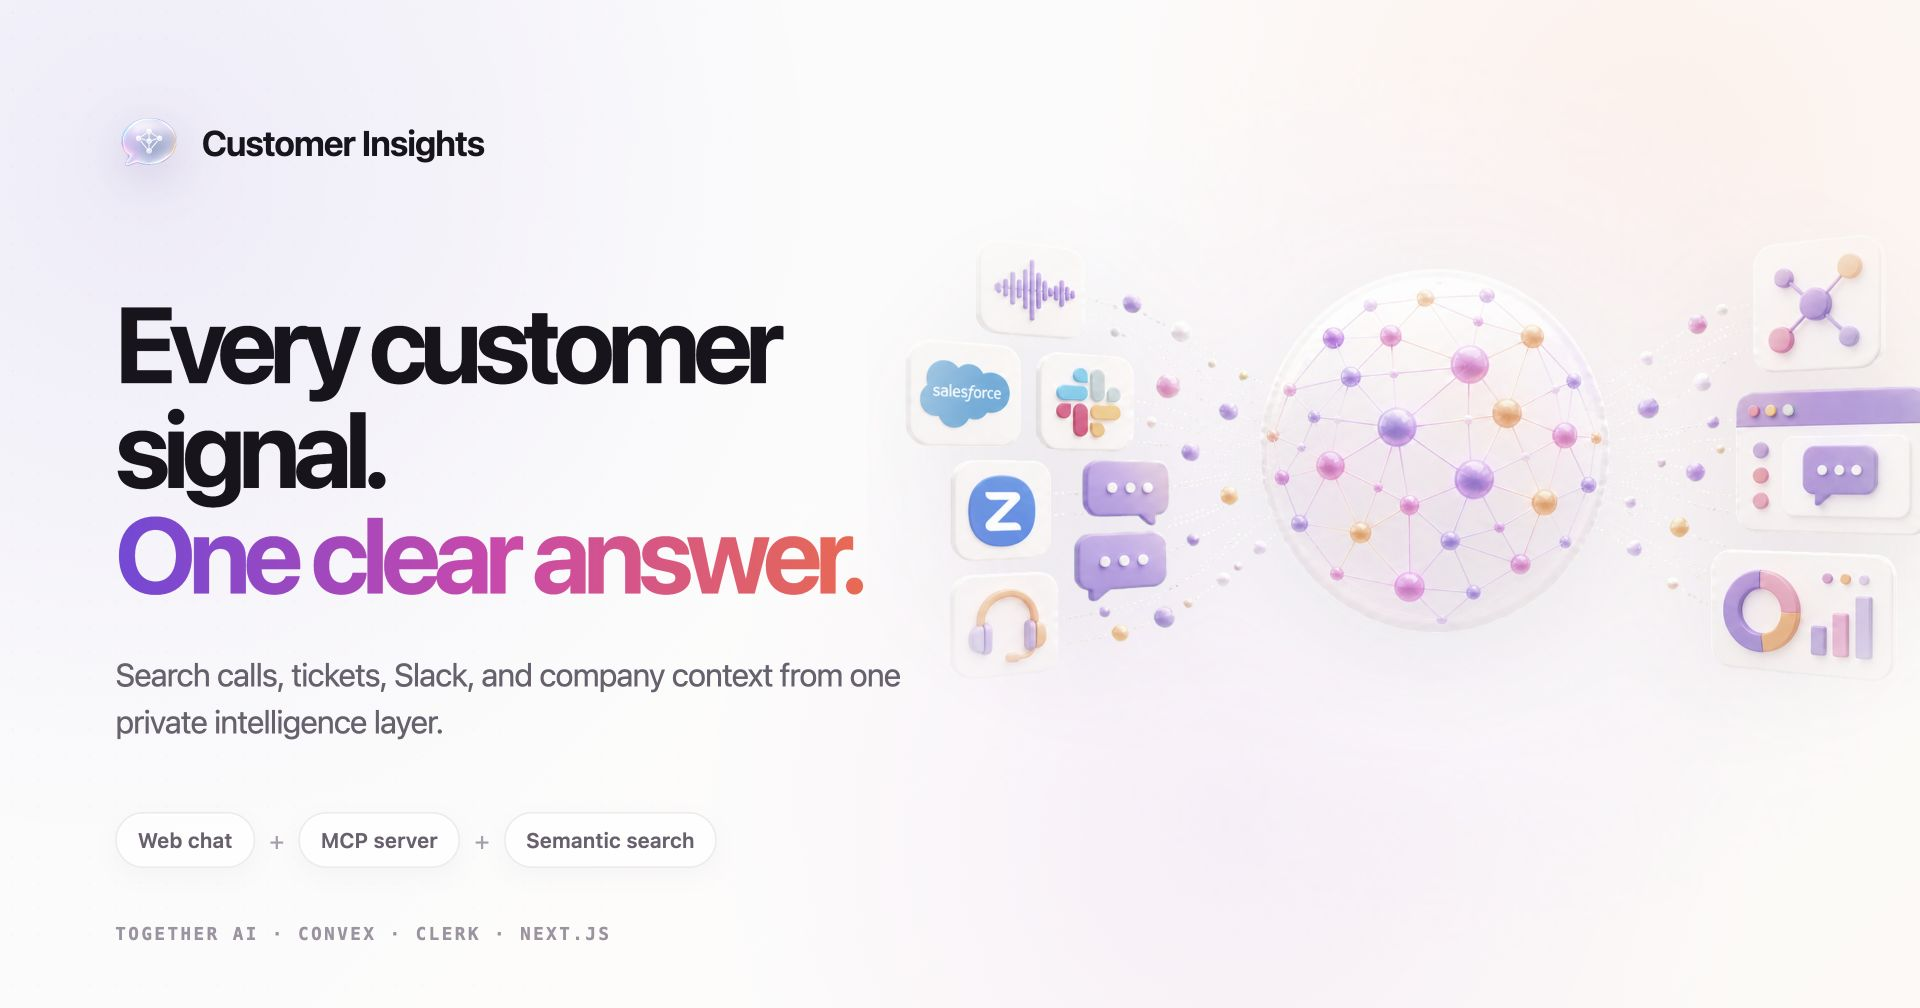
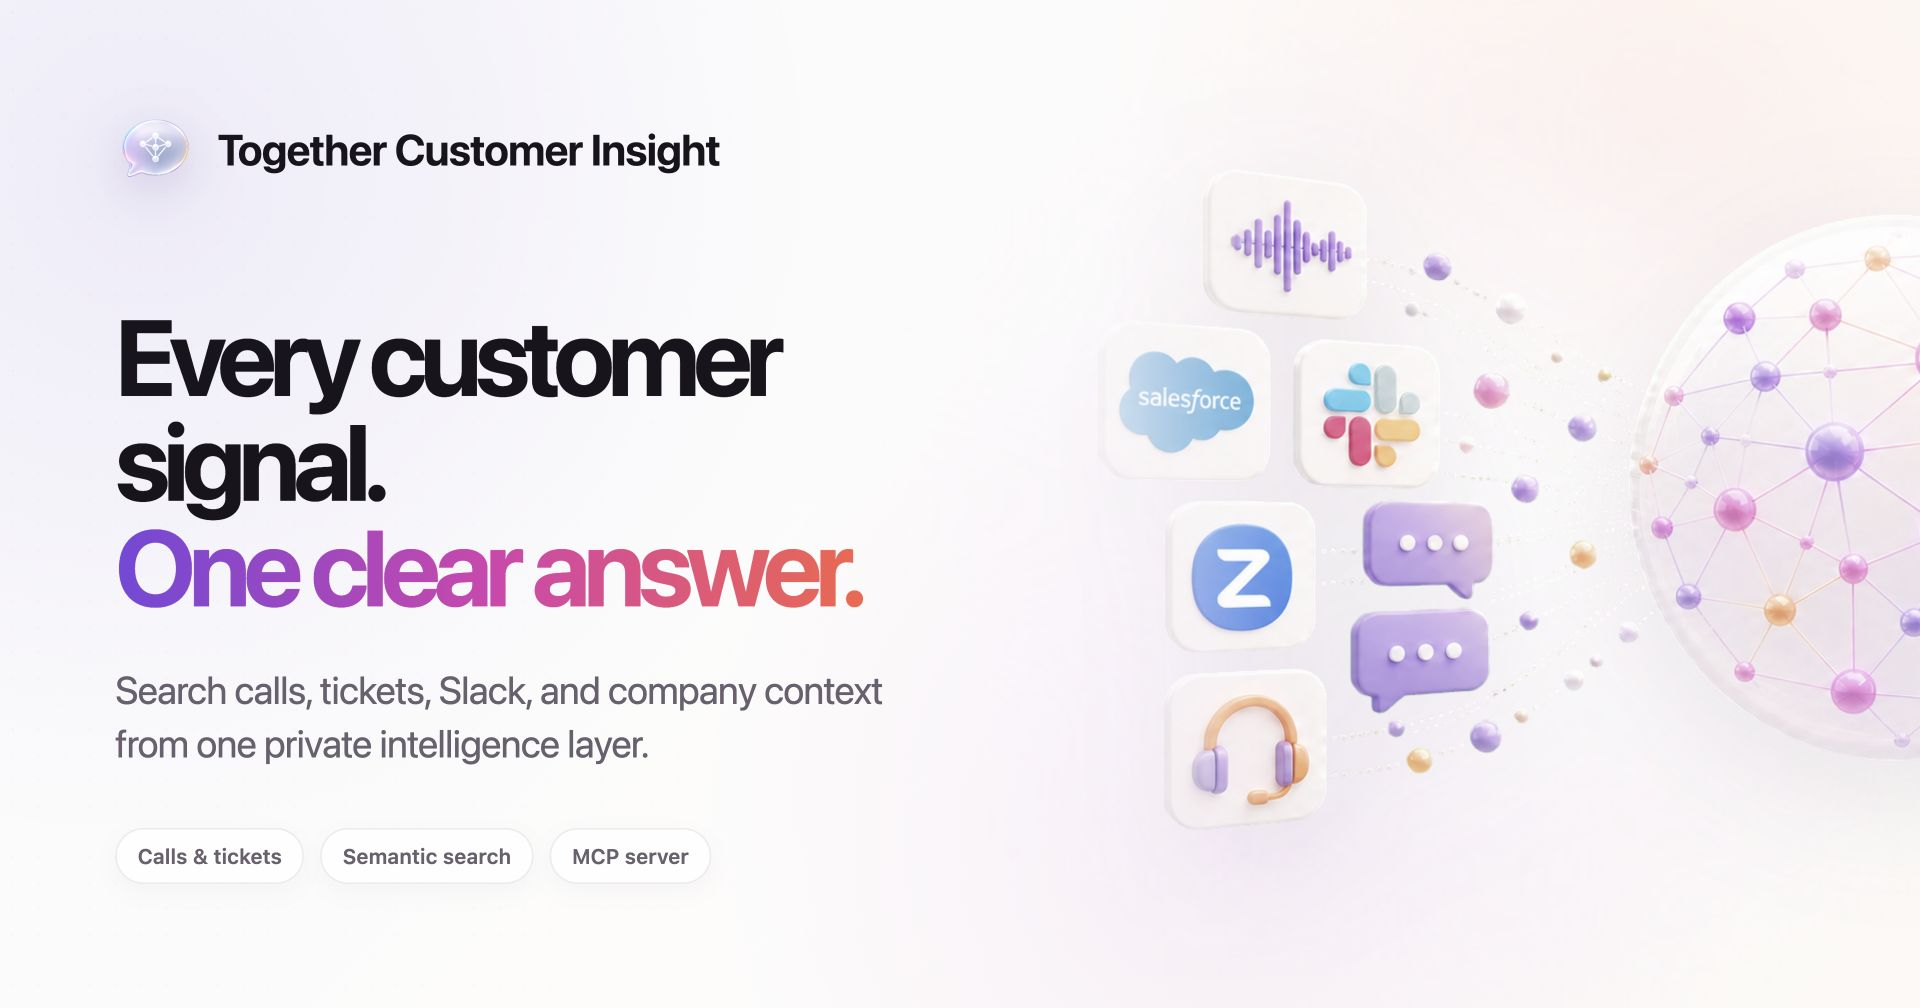
Refine open source cover artwork

diff --git a/public/cover/preview.html b/public/cover/preview.html
@@ -38,22 +38,22 @@
       }
       .glow {
         position: absolute;
-        right: -40px;
-        top: 55px;
-        width: 680px;
-        height: 520px;
+        right: -160px;
+        top: 14px;
+        width: 850px;
+        height: 600px;
         border-radius: 50%;
         background: radial-gradient(circle, rgba(255,255,255,.92) 0%, rgba(247,240,249,.34) 44%, rgba(255,255,255,0) 74%);
         filter: blur(14px);
       }
       .network {
         position: absolute;
-        right: -42px;
-        top: 92px;
-        width: 700px;
+        right: -500px;
+        top: 20px;
+        width: 1050px;
         opacity: .9;
         filter: saturate(.82) drop-shadow(0 24px 40px rgba(75, 55, 95, .11));
-        mask-image: radial-gradient(ellipse 60% 58% at 51% 49%, #000 54%, rgba(0,0,0,.9) 70%, transparent 100%);
+        mask-image: linear-gradient(90deg, transparent 0%, #000 15%, #000 100%);
       }
       .copy {
         position: relative;
@@ -64,14 +64,14 @@
       .brand {
         display: inline-flex;
         align-items: center;
-        gap: 12px;
-        font-size: 22px;
+        gap: 14px;
+        font-size: 27px;
         font-weight: 650;
         letter-spacing: -.025em;
       }
       .brand img {
-        width: 42px;
-        height: 42px;
+        width: 50px;
+        height: 50px;
         object-fit: contain;
         filter: drop-shadow(0 8px 14px rgba(94,65,145,.2));
       }
@@ -93,15 +93,15 @@
         margin: 28px 0 0;
         max-width: 500px;
         color: #67616e;
-        font-size: 20px;
-        line-height: 1.48;
+        font-size: 24px;
+        line-height: 1.4;
         letter-spacing: -.018em;
       }
       .signals {
         display: flex;
         align-items: center;
-        gap: 9px;
-        margin-top: 42px;
+        gap: 10px;
+        margin-top: 36px;
       }
       .signal {
         padding: 9px 13px;
@@ -112,18 +112,6 @@
         color: #69616e;
         font-size: 13px;
         font-weight: 600;
-      }
-      .plus { color: #a79ead; font-size: 15px; }
-      .footer {
-        position: absolute;
-        left: 72px;
-        bottom: 40px;
-        color: #9c94a1;
-        font-family: ui-monospace, SFMono-Regular, Menlo, monospace;
-        font-size: 11px;
-        font-weight: 600;
-        letter-spacing: .14em;
-        text-transform: uppercase;
       }
       @media (min-width: 1800px) and (min-height: 1000px) {
         body { display: block; }
@@ -143,19 +131,16 @@
       <section class="copy">
         <div class="brand">
           <img src="../icon.png" alt="" />
-          <span>Customer Insights</span>
+          <span>Together Customer Insight</span>
         </div>
         <h1>Every customer signal.<span>One clear answer.</span></h1>
         <p class="subtitle">Search calls, tickets, Slack, and company context from one private intelligence layer.</p>
         <div class="signals">
-          <span class="signal">Web chat</span>
-          <span class="plus">+</span>
-          <span class="signal">MCP server</span>
-          <span class="plus">+</span>
+          <span class="signal">Calls &amp; tickets</span>
           <span class="signal">Semantic search</span>
+          <span class="signal">MCP server</span>
         </div>
       </section>
-      <div class="footer">Together AI · Convex · Clerk · Next.js</div>
     </main>
   </body>
 </html>
